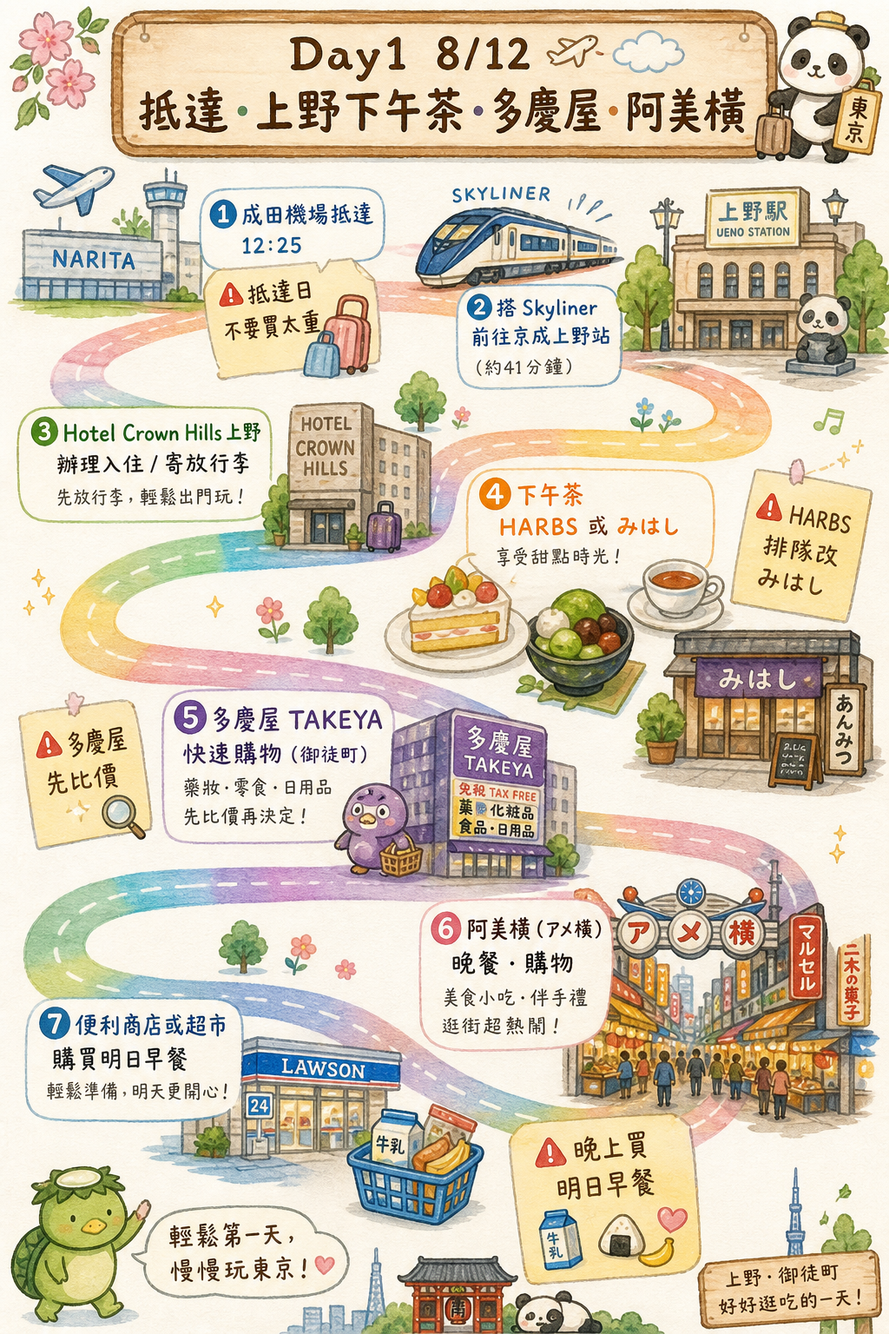
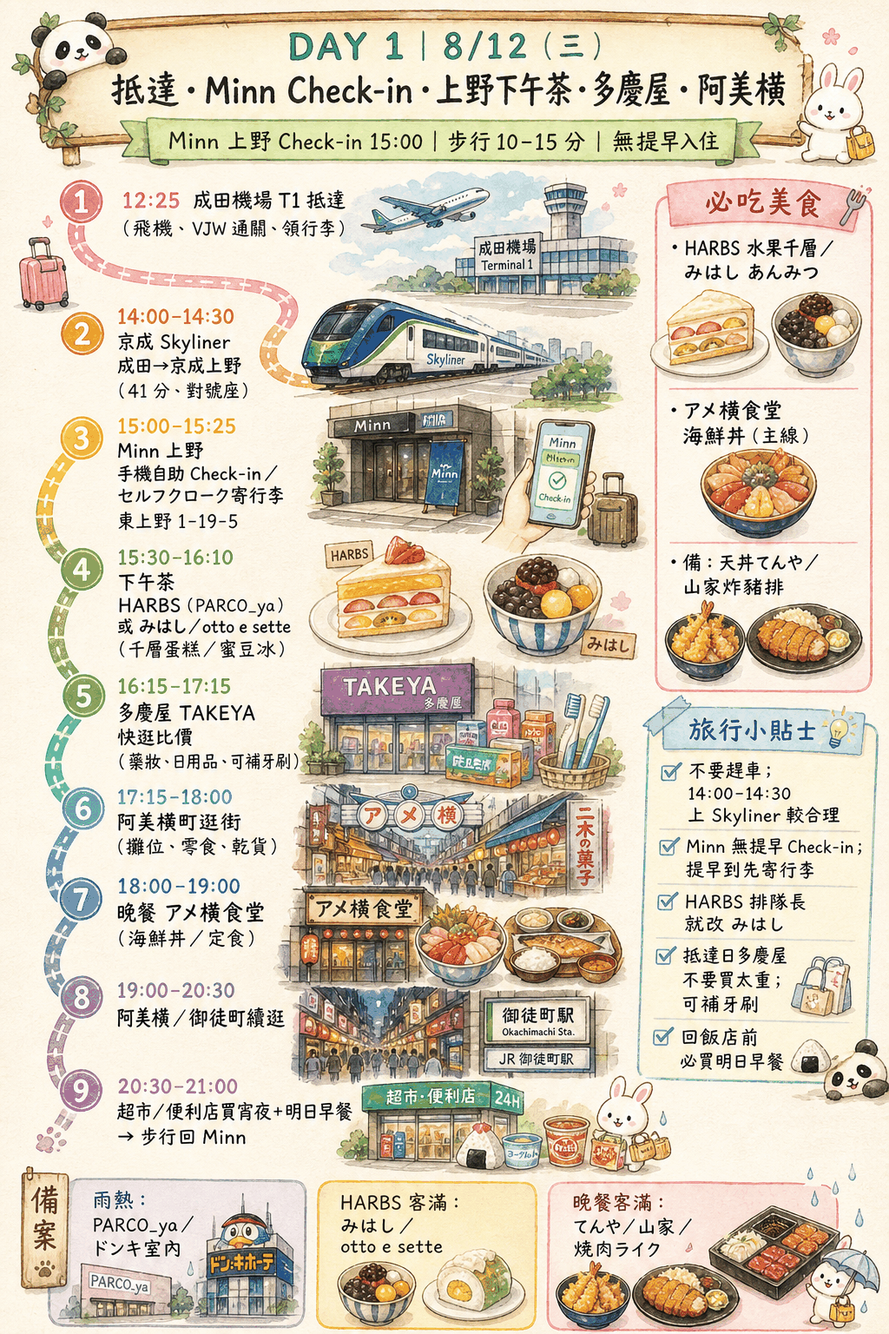
Refresh Day1 guide and map for Minn Ueno check-in.
Replace Crown Hills labels with Minn walk-in flow, self check-in tips, and synced mobile-friendly Day1 journey art.

diff --git a/Japan/20260812_Tokyo/tokyo-2026-08-guide.html b/Japan/20260812_Tokyo/tokyo-2026-08-guide.html
@@ -329,12 +329,13 @@
 <p class="muted">外出只要看這一節就好；遇到疑問再往下翻各日詳細說明。</p>
 
 <details open>
-<summary>Day1｜抵達東京・上野下午茶・多慶屋・阿美橫町</summary>
+<summary>Day1｜抵達東京・Minn Check-in・上野下午茶・多慶屋・阿美橫町</summary>
 <ul>
 <li><span class="time">07:55</span> 桃園 T2 起飛（BR 184）→ <span class="time">12:25</span> 抵達成田機場<a class="gmap" href="https://www.google.com/maps/search/?api=1&query=%E6%88%90%E7%94%B0%E5%9B%BD%E9%9A%9B%E7%A9%BA%E6%B8%AF" target="_blank" rel="noopener" title="Google Maps：成田国際空港">📍地圖</a> → 依指示走 VJW 通關。<b>行李多、人多時不用急著衝車</b>。</li>
 <li><span class="time">14:00–14:30</span> Skyliner 成田機場站<a class="gmap" href="https://www.google.com/maps/search/?api=1&query=%E6%88%90%E7%94%B0%E7%A9%BA%E6%B8%AF%E9%A7%85" target="_blank" rel="noopener" title="Google Maps：成田空港駅">📍地圖</a> → 京成上野站<a class="gmap" href="https://www.google.com/maps/search/?api=1&query=%E4%BA%AC%E6%88%90%E4%B8%8A%E9%87%8E%E9%A7%85" target="_blank" rel="noopener" title="Google Maps：京成上野駅">📍地圖</a>（建議現場直接買來回票）。</li>
+<li><span class="time">15:00–15:25</span> 步行約 10–15 分 → <b>Minn 上野</b> 手機自助 Check-in／セルフクローク寄行李（無提早 Check-in）。詳見 <a href="ueno-station-to-minn-ueno-guide.html">站→飯店</a>。</li>
 <li><span class="time">15:30–16:15</span> 上野下午茶：HARBS<a class="gmap" href="https://www.google.com/maps/search/?api=1&query=HARBS%20PARCO_ya%20%E4%B8%8A%E9%87%8E" target="_blank" rel="noopener" title="Google Maps：HARBS PARCO_ya 上野">📍地圖</a> 若排隊太長就直接改 <b>みはし<a class="gmap" href="https://www.google.com/maps/search/?api=1&query=%E3%81%BF%E3%81%AF%E3%81%97%20%E4%B8%8A%E9%87%8E%E6%9C%AC%E5%BA%97" target="_blank" rel="noopener" title="Google Maps：みはし 上野本店">📍地圖</a> / otto e sette<a class="gmap" href="https://www.google.com/maps/search/?api=1&query=%E5%BB%9A%20otto%20e%20sette%20%E4%B8%8A%E9%87%8E" target="_blank" rel="noopener" title="Google Maps：廚 otto e sette 上野">📍地圖</a></b>。</li>
-<li><span class="time">16:15–17:15</span> <b>多慶屋快逛</b>（藥妝／食品／日用品先看價）→ <span class="time">17:15 起</span> 阿美橫町逛街＋晚餐 → 回飯店前買宵夜／明日早餐。</li>
+<li><span class="time">16:15–17:15</span> <b>多慶屋快逛</b>（藥妝／食品／日用品先看價；可補牙刷）→ <span class="time">17:15 起</span> 阿美橫町逛街＋晚餐 → 回飯店前買宵夜／明日早餐。</li>
 </ul>
 </details>
 
@@ -568,7 +569,7 @@
 <summary>🟢 現場即可（不收訂位 / 排隊制）</summary>
 <div class="card">
 <ul>
-<li><b>Day1</b>：HARBS、みはし、鳥貴族、山家炸豬排、天丼てんや — <b>現場排</b>；HARBS <b>14:30 前到</b>。</li>
+<li><b>Day1</b>：HARBS、みはし、鳥貴族、山家炸豬排、天丼てんや — <b>現場排</b>；入住後再看 HARBS，隊長就改 みはし。</li>
 <li><b>Day2</b>：豐洲午餐多店機動；晚餐優先麻布台 Hills／希須林／Sta.／神谷町・六本木連鎖，或回上野阿美橫／てんや／山家。</li>
 <li><b>Day3</b>：WEGO 原宿本店 10:30 開；午餐澀谷；晚餐改新宿西口（展望台後、光雕秀前）；19:30 光雕秀後回上野。</li>
 <li><b>Day4</b>：Solamachi トリトン／利久；燈籠後淺草或上野快速晚餐。</li>
@@ -609,6 +610,10 @@
 <div class="muted">住宿：<b>Minn 上野</b>（東上野1-19-5<a class="gmap" href="https://www.google.com/maps/search/?api=1&query=Minn%E4%B8%8A%E9%87%8E+%E6%9D%B1%E4%BA%AC%E9%83%BD%E5%8F%B0%E6%9D%B1%E5%8C%BA%E6%9D%B1%E4%B8%8A%E9%87%8E1-19-5" target="_blank" rel="noopener" title="Google Maps：Minn 上野">📍地圖</a>｜Check-in 15:00）　主題：輕鬆收心、上野/御徒町初逛、多慶屋比價、阿美橫町初體驗　｜　<a href="ueno-station-to-minn-ueno-guide.html">站→飯店動線</a></div>
 <a class="map-link" href="assets/day-01-20260812.png" target="_blank" rel="noopener"><img src="assets/day-01-20260812.png" alt="Day 1 旅程地圖（點擊開啟高畫質原圖）" class="map-img" loading="lazy" decoding="async"></a>
 
+<div class="okbox">✅ <b>本日定案</b>：成田 → Skyliner → <b>Minn 上野</b>（15:00 Check-in）→ 下午茶 → 多慶屋比價 → 阿美橫町逛街＋アメ横食堂 → 回飯店前買明日早餐。<br>
+⭐ 京成上野→Minn 步行約 <b>10–15 分</b>（可改 JR 御徒町再走約 5 分）。手機自助入住＋セルフクローク；詳見 <a href="ueno-station-to-minn-ueno-guide.html">站→飯店指南</a>。</div>
+<div class="warnbox">⚠ Minn <b>無提早 Check-in</b>；提早到先寄行李再去吃／逛。備品含洗髮／沐浴／毛巾／吹風機，<b>不含牙刷／刮鬍刀／睡衣</b>（可現場買竹牙刷，或到多慶屋／药妆補）。</div>
+
 <details open>
 <summary>🕒 時間表 + 交通路線</summary>
 <div class="card">
@@ -616,7 +621,8 @@
 <span class="muted">↳ 抓 90–120 分鐘緩衝：暑假人潮 + 領李 + 買 Skyliner 票，<b>14:00–14:30 上車</b>較合理。</span></p>
 <p><span class="time">~14:10–14:30</span> <b>京成 Skyliner</b>：成田機場站<a class="gmap" href="https://www.google.com/maps/search/?api=1&query=%E6%88%90%E7%94%B0%E7%A9%BA%E6%B8%AF%E9%A7%85" target="_blank" rel="noopener" title="Google Maps：成田空港駅">📍地圖</a> → 京成上野站<a class="gmap" href="https://www.google.com/maps/search/?api=1&query=%E4%BA%AC%E6%88%90%E4%B8%8A%E9%87%8E%E9%A7%85" target="_blank" rel="noopener" title="Google Maps：京成上野駅">📍地圖</a>，<b>直達不轉車 41 分</b>，¥2,580（建議買來回 ¥4,480）。<br>
 <span class="muted">↳ Skyliner 對號座，行李架夠大。</span></p>
-<p><span class="time">15:00–15:25</span> 京成上野站<a class="gmap" href="https://www.google.com/maps/search/?api=1&query=%E4%BA%AC%E6%88%90%E4%B8%8A%E9%87%8E%E9%A7%85" target="_blank" rel="noopener" title="Google Maps：京成上野駅">📍地圖</a>步行約 10–15 分（或轉 JR 御徒町再走 5 分）→ <b>Minn 上野</b> 手機自助 Check-in／セルフクローク寄行李。詳見 <a href="ueno-station-to-minn-ueno-guide.html">站→飯店指南</a>。</p>
+<p><span class="time">15:00–15:25</span> 京成上野站<a class="gmap" href="https://www.google.com/maps/search/?api=1&query=%E4%BA%AC%E6%88%90%E4%B8%8A%E9%87%8E%E9%A7%85" target="_blank" rel="noopener" title="Google Maps：京成上野駅">📍地圖</a>步行約 10–15 分（或轉 JR 御徒町再走 5 分）→ <b>Minn 上野</b> 手機自助 Check-in／セルフクローク寄行李。詳見 <a href="ueno-station-to-minn-ueno-guide.html">站→飯店指南</a>。<br>
+<span class="muted">↳ 方向往南（御徒町／阿美橫），勿往不忍池／動物園北走。Maps 搜「Minn 上野」或東上野1-19-5。</span></p>
 <p><span class="time">15:30–16:10</span> 下午茶（<b>HARBS 若還排得進就吃；若已晚或太多人，直接改 みはし/otto e sette</b>）。</p>
 <p><span class="time">16:15–17:15</span> <b>多慶屋 TAKEYA<a class="gmap" href="https://www.google.com/maps/search/?api=1&query=%E5%A4%9A%E6%85%B6%E5%B1%8B%20%E4%B8%8A%E9%87%8E" target="_blank" rel="noopener" title="Google Maps：多慶屋 上野">📍地圖</a>快逛</b>：御徒町大型折扣店，先看藥妝／食品／日用品／伴手禮價格；抵達日不要買太重，先做比價與補基本用品。</p>
 <p><span class="time">17:15–18:00</span> <b>阿美橫町<a class="gmap" href="https://www.google.com/maps/search/?api=1&query=%E3%82%A2%E3%83%A1%E6%A8%AA" target="_blank" rel="noopener" title="Google Maps：アメ横">📍地圖</a>逛街</b>（药妆、零食、海鮮乾貨；見下「阿美橫町・在地生活」）。</p>
@@ -664,8 +670,8 @@
 <summary>🍽 三餐 ×3 備案</summary>
 <div class="card">
 <p class="muted">本日風格：<b>甜點下午茶 ＋ 阿美橫町逛街晚餐</b>（與其他天不重複）。</p>
-<p><span class="tag b">下午茶（15:00）</span></p>
-<p><b>① HARBS 上野店<a class="gmap" href="https://www.google.com/maps/search/?api=1&query=HARBS%20PARCO_ya%20%E4%B8%8A%E9%87%8E" target="_blank" rel="noopener" title="Google Maps：HARBS PARCO_ya 上野">📍地圖</a></b>（ハーブス）<span class="pill">PARCO_ya<a class="gmap" href="https://www.google.com/maps/search/?api=1&query=PARCO_ya%20%E4%B8%8A%E9%87%8E" target="_blank" rel="noopener" title="Google Maps：PARCO_ya 上野">📍地圖</a> 2F</span> — 水果千層 Mille Crepes + 熱紅茶，¥1,500–2,000。<b>不收訂位</b>；若當天 <b>15:30 前已到上野且排隊不長</b>再選它，否則直接改 ②③ 更穩，每人低消一杯飲品。Maps：<a class="gmap" href="https://www.google.com/maps/search/?api=1&query=HARBS%20PARCO_ya%20%E4%B8%8A%E9%87%8E" target="_blank" rel="noopener" title="Google Maps：HARBS PARCO_ya 上野">HARBS PARCO_ya 上野</a>。</p>
+<p><span class="tag b">下午茶（15:30｜Check-in 後）</span></p>
+<p><b>① HARBS 上野店<a class="gmap" href="https://www.google.com/maps/search/?api=1&query=HARBS%20PARCO_ya%20%E4%B8%8A%E9%87%8E" target="_blank" rel="noopener" title="Google Maps：HARBS PARCO_ya 上野">📍地圖</a></b>（ハーブス）<span class="pill">PARCO_ya<a class="gmap" href="https://www.google.com/maps/search/?api=1&query=PARCO_ya%20%E4%B8%8A%E9%87%8E" target="_blank" rel="noopener" title="Google Maps：PARCO_ya 上野">📍地圖</a> 2F</span> — 水果千層 Mille Crepes + 熱紅茶，¥1,500–2,000。<b>不收訂位</b>；Minn Check-in 後若排隊不長再選它，否則直接改 ②③ 更穩，每人低消一杯飲品。Maps：<a class="gmap" href="https://www.google.com/maps/search/?api=1&query=HARBS%20PARCO_ya%20%E4%B8%8A%E9%87%8E" target="_blank" rel="noopener" title="Google Maps：HARBS PARCO_ya 上野">HARBS PARCO_ya 上野</a>。</p>
 <p><b>② みはし 上野本店<a class="gmap" href="https://www.google.com/maps/search/?api=1&query=%E3%81%BF%E3%81%AF%E3%81%97%20%E4%B8%8A%E9%87%8E%E6%9C%AC%E5%BA%97" target="_blank" rel="noopener" title="Google Maps：みはし 上野本店">📍地圖</a></b>（あんみつ蜜豆冰）— 在地老店、夏天消暑，¥800–1,200，<b>現場候位、不訂位</b>。Maps：<a class="gmap" href="https://www.google.com/maps/search/?api=1&query=%E3%81%BF%E3%81%AF%E3%81%97%20%E4%B8%8A%E9%87%8E" target="_blank" rel="noopener" title="Google Maps：みはし 上野">みはし 上野</a>。</p>
 <p><b>③ 廚 otto e sette<a class="gmap" href="https://www.google.com/maps/search/?api=1&query=%E5%BB%9A%20otto%20e%20sette%20%E4%B8%8A%E9%87%8E" target="_blank" rel="noopener" title="Google Maps：廚 otto e sette 上野">📍地圖</a></b>（義式甜點，少觀光客）— 蛋糕精緻，¥1,200–1,800，<b>不訂位</b>，平日午後較空。</p>
 <hr>

diff --git a/Japan/20260812_Tokyo/tokyo-20260812-guide.html b/Japan/20260812_Tokyo/tokyo-20260812-guide.html
@@ -329,12 +329,13 @@
 <p class="muted">外出只要看這一節就好；遇到疑問再往下翻各日詳細說明。</p>
 
 <details open>
-<summary>Day1｜抵達東京・上野下午茶・多慶屋・阿美橫町</summary>
+<summary>Day1｜抵達東京・Minn Check-in・上野下午茶・多慶屋・阿美橫町</summary>
 <ul>
 <li><span class="time">07:55</span> 桃園 T2 起飛（BR 184）→ <span class="time">12:25</span> 抵達成田機場<a class="gmap" href="https://www.google.com/maps/search/?api=1&query=%E6%88%90%E7%94%B0%E5%9B%BD%E9%9A%9B%E7%A9%BA%E6%B8%AF" target="_blank" rel="noopener" title="Google Maps：成田国際空港">📍地圖</a> → 依指示走 VJW 通關。<b>行李多、人多時不用急著衝車</b>。</li>
 <li><span class="time">14:00–14:30</span> Skyliner 成田機場站<a class="gmap" href="https://www.google.com/maps/search/?api=1&query=%E6%88%90%E7%94%B0%E7%A9%BA%E6%B8%AF%E9%A7%85" target="_blank" rel="noopener" title="Google Maps：成田空港駅">📍地圖</a> → 京成上野站<a class="gmap" href="https://www.google.com/maps/search/?api=1&query=%E4%BA%AC%E6%88%90%E4%B8%8A%E9%87%8E%E9%A7%85" target="_blank" rel="noopener" title="Google Maps：京成上野駅">📍地圖</a>（建議現場直接買來回票）。</li>
+<li><span class="time">15:00–15:25</span> 步行約 10–15 分 → <b>Minn 上野</b> 手機自助 Check-in／セルフクローク寄行李（無提早 Check-in）。詳見 <a href="ueno-station-to-minn-ueno-guide.html">站→飯店</a>。</li>
 <li><span class="time">15:30–16:15</span> 上野下午茶：HARBS<a class="gmap" href="https://www.google.com/maps/search/?api=1&query=HARBS%20PARCO_ya%20%E4%B8%8A%E9%87%8E" target="_blank" rel="noopener" title="Google Maps：HARBS PARCO_ya 上野">📍地圖</a> 若排隊太長就直接改 <b>みはし<a class="gmap" href="https://www.google.com/maps/search/?api=1&query=%E3%81%BF%E3%81%AF%E3%81%97%20%E4%B8%8A%E9%87%8E%E6%9C%AC%E5%BA%97" target="_blank" rel="noopener" title="Google Maps：みはし 上野本店">📍地圖</a> / otto e sette<a class="gmap" href="https://www.google.com/maps/search/?api=1&query=%E5%BB%9A%20otto%20e%20sette%20%E4%B8%8A%E9%87%8E" target="_blank" rel="noopener" title="Google Maps：廚 otto e sette 上野">📍地圖</a></b>。</li>
-<li><span class="time">16:15–17:15</span> <b>多慶屋快逛</b>（藥妝／食品／日用品先看價）→ <span class="time">17:15 起</span> 阿美橫町逛街＋晚餐 → 回飯店前買宵夜／明日早餐。</li>
+<li><span class="time">16:15–17:15</span> <b>多慶屋快逛</b>（藥妝／食品／日用品先看價；可補牙刷）→ <span class="time">17:15 起</span> 阿美橫町逛街＋晚餐 → 回飯店前買宵夜／明日早餐。</li>
 </ul>
 </details>
 
@@ -568,7 +569,7 @@
 <summary>🟢 現場即可（不收訂位 / 排隊制）</summary>
 <div class="card">
 <ul>
-<li><b>Day1</b>：HARBS、みはし、鳥貴族、山家炸豬排、天丼てんや — <b>現場排</b>；HARBS <b>14:30 前到</b>。</li>
+<li><b>Day1</b>：HARBS、みはし、鳥貴族、山家炸豬排、天丼てんや — <b>現場排</b>；入住後再看 HARBS，隊長就改 みはし。</li>
 <li><b>Day2</b>：豐洲午餐多店機動；晚餐優先麻布台 Hills／希須林／Sta.／神谷町・六本木連鎖，或回上野阿美橫／てんや／山家。</li>
 <li><b>Day3</b>：WEGO 原宿本店 10:30 開；午餐澀谷；晚餐改新宿西口（展望台後、光雕秀前）；19:30 光雕秀後回上野。</li>
 <li><b>Day4</b>：Solamachi トリトン／利久；燈籠後淺草或上野快速晚餐。</li>
@@ -609,6 +610,10 @@
 <div class="muted">住宿：<b>Minn 上野</b>（東上野1-19-5<a class="gmap" href="https://www.google.com/maps/search/?api=1&query=Minn%E4%B8%8A%E9%87%8E+%E6%9D%B1%E4%BA%AC%E9%83%BD%E5%8F%B0%E6%9D%B1%E5%8C%BA%E6%9D%B1%E4%B8%8A%E9%87%8E1-19-5" target="_blank" rel="noopener" title="Google Maps：Minn 上野">📍地圖</a>｜Check-in 15:00）　主題：輕鬆收心、上野/御徒町初逛、多慶屋比價、阿美橫町初體驗　｜　<a href="ueno-station-to-minn-ueno-guide.html">站→飯店動線</a></div>
 <a class="map-link" href="assets/day-01-20260812.png" target="_blank" rel="noopener"><img src="assets/day-01-20260812.png" alt="Day 1 旅程地圖（點擊開啟高畫質原圖）" class="map-img" loading="lazy" decoding="async"></a>
 
+<div class="okbox">✅ <b>本日定案</b>：成田 → Skyliner → <b>Minn 上野</b>（15:00 Check-in）→ 下午茶 → 多慶屋比價 → 阿美橫町逛街＋アメ横食堂 → 回飯店前買明日早餐。<br>
+⭐ 京成上野→Minn 步行約 <b>10–15 分</b>（可改 JR 御徒町再走約 5 分）。手機自助入住＋セルフクローク；詳見 <a href="ueno-station-to-minn-ueno-guide.html">站→飯店指南</a>。</div>
+<div class="warnbox">⚠ Minn <b>無提早 Check-in</b>；提早到先寄行李再去吃／逛。備品含洗髮／沐浴／毛巾／吹風機，<b>不含牙刷／刮鬍刀／睡衣</b>（可現場買竹牙刷，或到多慶屋／药妆補）。</div>
+
 <details open>
 <summary>🕒 時間表 + 交通路線</summary>
 <div class="card">
@@ -616,7 +621,8 @@
 <span class="muted">↳ 抓 90–120 分鐘緩衝：暑假人潮 + 領李 + 買 Skyliner 票，<b>14:00–14:30 上車</b>較合理。</span></p>
 <p><span class="time">~14:10–14:30</span> <b>京成 Skyliner</b>：成田機場站<a class="gmap" href="https://www.google.com/maps/search/?api=1&query=%E6%88%90%E7%94%B0%E7%A9%BA%E6%B8%AF%E9%A7%85" target="_blank" rel="noopener" title="Google Maps：成田空港駅">📍地圖</a> → 京成上野站<a class="gmap" href="https://www.google.com/maps/search/?api=1&query=%E4%BA%AC%E6%88%90%E4%B8%8A%E9%87%8E%E9%A7%85" target="_blank" rel="noopener" title="Google Maps：京成上野駅">📍地圖</a>，<b>直達不轉車 41 分</b>，¥2,580（建議買來回 ¥4,480）。<br>
 <span class="muted">↳ Skyliner 對號座，行李架夠大。</span></p>
-<p><span class="time">15:00–15:25</span> 京成上野站<a class="gmap" href="https://www.google.com/maps/search/?api=1&query=%E4%BA%AC%E6%88%90%E4%B8%8A%E9%87%8E%E9%A7%85" target="_blank" rel="noopener" title="Google Maps：京成上野駅">📍地圖</a>步行約 10–15 分（或轉 JR 御徒町再走 5 分）→ <b>Minn 上野</b> 手機自助 Check-in／セルフクローク寄行李。詳見 <a href="ueno-station-to-minn-ueno-guide.html">站→飯店指南</a>。</p>
+<p><span class="time">15:00–15:25</span> 京成上野站<a class="gmap" href="https://www.google.com/maps/search/?api=1&query=%E4%BA%AC%E6%88%90%E4%B8%8A%E9%87%8E%E9%A7%85" target="_blank" rel="noopener" title="Google Maps：京成上野駅">📍地圖</a>步行約 10–15 分（或轉 JR 御徒町再走 5 分）→ <b>Minn 上野</b> 手機自助 Check-in／セルフクローク寄行李。詳見 <a href="ueno-station-to-minn-ueno-guide.html">站→飯店指南</a>。<br>
+<span class="muted">↳ 方向往南（御徒町／阿美橫），勿往不忍池／動物園北走。Maps 搜「Minn 上野」或東上野1-19-5。</span></p>
 <p><span class="time">15:30–16:10</span> 下午茶（<b>HARBS 若還排得進就吃；若已晚或太多人，直接改 みはし/otto e sette</b>）。</p>
 <p><span class="time">16:15–17:15</span> <b>多慶屋 TAKEYA<a class="gmap" href="https://www.google.com/maps/search/?api=1&query=%E5%A4%9A%E6%85%B6%E5%B1%8B%20%E4%B8%8A%E9%87%8E" target="_blank" rel="noopener" title="Google Maps：多慶屋 上野">📍地圖</a>快逛</b>：御徒町大型折扣店，先看藥妝／食品／日用品／伴手禮價格；抵達日不要買太重，先做比價與補基本用品。</p>
 <p><span class="time">17:15–18:00</span> <b>阿美橫町<a class="gmap" href="https://www.google.com/maps/search/?api=1&query=%E3%82%A2%E3%83%A1%E6%A8%AA" target="_blank" rel="noopener" title="Google Maps：アメ横">📍地圖</a>逛街</b>（药妆、零食、海鮮乾貨；見下「阿美橫町・在地生活」）。</p>
@@ -664,8 +670,8 @@
 <summary>🍽 三餐 ×3 備案</summary>
 <div class="card">
 <p class="muted">本日風格：<b>甜點下午茶 ＋ 阿美橫町逛街晚餐</b>（與其他天不重複）。</p>
-<p><span class="tag b">下午茶（15:00）</span></p>
-<p><b>① HARBS 上野店<a class="gmap" href="https://www.google.com/maps/search/?api=1&query=HARBS%20PARCO_ya%20%E4%B8%8A%E9%87%8E" target="_blank" rel="noopener" title="Google Maps：HARBS PARCO_ya 上野">📍地圖</a></b>（ハーブス）<span class="pill">PARCO_ya<a class="gmap" href="https://www.google.com/maps/search/?api=1&query=PARCO_ya%20%E4%B8%8A%E9%87%8E" target="_blank" rel="noopener" title="Google Maps：PARCO_ya 上野">📍地圖</a> 2F</span> — 水果千層 Mille Crepes + 熱紅茶，¥1,500–2,000。<b>不收訂位</b>；若當天 <b>15:30 前已到上野且排隊不長</b>再選它，否則直接改 ②③ 更穩，每人低消一杯飲品。Maps：<a class="gmap" href="https://www.google.com/maps/search/?api=1&query=HARBS%20PARCO_ya%20%E4%B8%8A%E9%87%8E" target="_blank" rel="noopener" title="Google Maps：HARBS PARCO_ya 上野">HARBS PARCO_ya 上野</a>。</p>
+<p><span class="tag b">下午茶（15:30｜Check-in 後）</span></p>
+<p><b>① HARBS 上野店<a class="gmap" href="https://www.google.com/maps/search/?api=1&query=HARBS%20PARCO_ya%20%E4%B8%8A%E9%87%8E" target="_blank" rel="noopener" title="Google Maps：HARBS PARCO_ya 上野">📍地圖</a></b>（ハーブス）<span class="pill">PARCO_ya<a class="gmap" href="https://www.google.com/maps/search/?api=1&query=PARCO_ya%20%E4%B8%8A%E9%87%8E" target="_blank" rel="noopener" title="Google Maps：PARCO_ya 上野">📍地圖</a> 2F</span> — 水果千層 Mille Crepes + 熱紅茶，¥1,500–2,000。<b>不收訂位</b>；Minn Check-in 後若排隊不長再選它，否則直接改 ②③ 更穩，每人低消一杯飲品。Maps：<a class="gmap" href="https://www.google.com/maps/search/?api=1&query=HARBS%20PARCO_ya%20%E4%B8%8A%E9%87%8E" target="_blank" rel="noopener" title="Google Maps：HARBS PARCO_ya 上野">HARBS PARCO_ya 上野</a>。</p>
 <p><b>② みはし 上野本店<a class="gmap" href="https://www.google.com/maps/search/?api=1&query=%E3%81%BF%E3%81%AF%E3%81%97%20%E4%B8%8A%E9%87%8E%E6%9C%AC%E5%BA%97" target="_blank" rel="noopener" title="Google Maps：みはし 上野本店">📍地圖</a></b>（あんみつ蜜豆冰）— 在地老店、夏天消暑，¥800–1,200，<b>現場候位、不訂位</b>。Maps：<a class="gmap" href="https://www.google.com/maps/search/?api=1&query=%E3%81%BF%E3%81%AF%E3%81%97%20%E4%B8%8A%E9%87%8E" target="_blank" rel="noopener" title="Google Maps：みはし 上野">みはし 上野</a>。</p>
 <p><b>③ 廚 otto e sette<a class="gmap" href="https://www.google.com/maps/search/?api=1&query=%E5%BB%9A%20otto%20e%20sette%20%E4%B8%8A%E9%87%8E" target="_blank" rel="noopener" title="Google Maps：廚 otto e sette 上野">📍地圖</a></b>（義式甜點，少觀光客）— 蛋糕精緻，¥1,200–1,800，<b>不訂位</b>，平日午後較空。</p>
 <hr>

diff --git a/docs/Japan/20260812_Tokyo/tokyo-2026-08-guide.html b/docs/Japan/20260812_Tokyo/tokyo-2026-08-guide.html
@@ -329,12 +329,13 @@
 <p class="muted">外出只要看這一節就好；遇到疑問再往下翻各日詳細說明。</p>
 
 <details open>
-<summary>Day1｜抵達東京・上野下午茶・多慶屋・阿美橫町</summary>
+<summary>Day1｜抵達東京・Minn Check-in・上野下午茶・多慶屋・阿美橫町</summary>
 <ul>
 <li><span class="time">07:55</span> 桃園 T2 起飛（BR 184）→ <span class="time">12:25</span> 抵達成田機場<a class="gmap" href="https://www.google.com/maps/search/?api=1&query=%E6%88%90%E7%94%B0%E5%9B%BD%E9%9A%9B%E7%A9%BA%E6%B8%AF" target="_blank" rel="noopener" title="Google Maps：成田国際空港">📍地圖</a> → 依指示走 VJW 通關。<b>行李多、人多時不用急著衝車</b>。</li>
 <li><span class="time">14:00–14:30</span> Skyliner 成田機場站<a class="gmap" href="https://www.google.com/maps/search/?api=1&query=%E6%88%90%E7%94%B0%E7%A9%BA%E6%B8%AF%E9%A7%85" target="_blank" rel="noopener" title="Google Maps：成田空港駅">📍地圖</a> → 京成上野站<a class="gmap" href="https://www.google.com/maps/search/?api=1&query=%E4%BA%AC%E6%88%90%E4%B8%8A%E9%87%8E%E9%A7%85" target="_blank" rel="noopener" title="Google Maps：京成上野駅">📍地圖</a>（建議現場直接買來回票）。</li>
+<li><span class="time">15:00–15:25</span> 步行約 10–15 分 → <b>Minn 上野</b> 手機自助 Check-in／セルフクローク寄行李（無提早 Check-in）。詳見 <a href="ueno-station-to-minn-ueno-guide.html">站→飯店</a>。</li>
 <li><span class="time">15:30–16:15</span> 上野下午茶：HARBS<a class="gmap" href="https://www.google.com/maps/search/?api=1&query=HARBS%20PARCO_ya%20%E4%B8%8A%E9%87%8E" target="_blank" rel="noopener" title="Google Maps：HARBS PARCO_ya 上野">📍地圖</a> 若排隊太長就直接改 <b>みはし<a class="gmap" href="https://www.google.com/maps/search/?api=1&query=%E3%81%BF%E3%81%AF%E3%81%97%20%E4%B8%8A%E9%87%8E%E6%9C%AC%E5%BA%97" target="_blank" rel="noopener" title="Google Maps：みはし 上野本店">📍地圖</a> / otto e sette<a class="gmap" href="https://www.google.com/maps/search/?api=1&query=%E5%BB%9A%20otto%20e%20sette%20%E4%B8%8A%E9%87%8E" target="_blank" rel="noopener" title="Google Maps：廚 otto e sette 上野">📍地圖</a></b>。</li>
-<li><span class="time">16:15–17:15</span> <b>多慶屋快逛</b>（藥妝／食品／日用品先看價）→ <span class="time">17:15 起</span> 阿美橫町逛街＋晚餐 → 回飯店前買宵夜／明日早餐。</li>
+<li><span class="time">16:15–17:15</span> <b>多慶屋快逛</b>（藥妝／食品／日用品先看價；可補牙刷）→ <span class="time">17:15 起</span> 阿美橫町逛街＋晚餐 → 回飯店前買宵夜／明日早餐。</li>
 </ul>
 </details>
 
@@ -568,7 +569,7 @@
 <summary>🟢 現場即可（不收訂位 / 排隊制）</summary>
 <div class="card">
 <ul>
-<li><b>Day1</b>：HARBS、みはし、鳥貴族、山家炸豬排、天丼てんや — <b>現場排</b>；HARBS <b>14:30 前到</b>。</li>
+<li><b>Day1</b>：HARBS、みはし、鳥貴族、山家炸豬排、天丼てんや — <b>現場排</b>；入住後再看 HARBS，隊長就改 みはし。</li>
 <li><b>Day2</b>：豐洲午餐多店機動；晚餐優先麻布台 Hills／希須林／Sta.／神谷町・六本木連鎖，或回上野阿美橫／てんや／山家。</li>
 <li><b>Day3</b>：WEGO 原宿本店 10:30 開；午餐澀谷；晚餐改新宿西口（展望台後、光雕秀前）；19:30 光雕秀後回上野。</li>
 <li><b>Day4</b>：Solamachi トリトン／利久；燈籠後淺草或上野快速晚餐。</li>
@@ -609,6 +610,10 @@
 <div class="muted">住宿：<b>Minn 上野</b>（東上野1-19-5<a class="gmap" href="https://www.google.com/maps/search/?api=1&query=Minn%E4%B8%8A%E9%87%8E+%E6%9D%B1%E4%BA%AC%E9%83%BD%E5%8F%B0%E6%9D%B1%E5%8C%BA%E6%9D%B1%E4%B8%8A%E9%87%8E1-19-5" target="_blank" rel="noopener" title="Google Maps：Minn 上野">📍地圖</a>｜Check-in 15:00）　主題：輕鬆收心、上野/御徒町初逛、多慶屋比價、阿美橫町初體驗　｜　<a href="ueno-station-to-minn-ueno-guide.html">站→飯店動線</a></div>
 <a class="map-link" href="assets/day-01-20260812.png" target="_blank" rel="noopener"><img src="assets/day-01-20260812.png" alt="Day 1 旅程地圖（點擊開啟高畫質原圖）" class="map-img" loading="lazy" decoding="async"></a>
 
+<div class="okbox">✅ <b>本日定案</b>：成田 → Skyliner → <b>Minn 上野</b>（15:00 Check-in）→ 下午茶 → 多慶屋比價 → 阿美橫町逛街＋アメ横食堂 → 回飯店前買明日早餐。<br>
+⭐ 京成上野→Minn 步行約 <b>10–15 分</b>（可改 JR 御徒町再走約 5 分）。手機自助入住＋セルフクローク；詳見 <a href="ueno-station-to-minn-ueno-guide.html">站→飯店指南</a>。</div>
+<div class="warnbox">⚠ Minn <b>無提早 Check-in</b>；提早到先寄行李再去吃／逛。備品含洗髮／沐浴／毛巾／吹風機，<b>不含牙刷／刮鬍刀／睡衣</b>（可現場買竹牙刷，或到多慶屋／药妆補）。</div>
+
 <details open>
 <summary>🕒 時間表 + 交通路線</summary>
 <div class="card">
@@ -616,7 +621,8 @@
 <span class="muted">↳ 抓 90–120 分鐘緩衝：暑假人潮 + 領李 + 買 Skyliner 票，<b>14:00–14:30 上車</b>較合理。</span></p>
 <p><span class="time">~14:10–14:30</span> <b>京成 Skyliner</b>：成田機場站<a class="gmap" href="https://www.google.com/maps/search/?api=1&query=%E6%88%90%E7%94%B0%E7%A9%BA%E6%B8%AF%E9%A7%85" target="_blank" rel="noopener" title="Google Maps：成田空港駅">📍地圖</a> → 京成上野站<a class="gmap" href="https://www.google.com/maps/search/?api=1&query=%E4%BA%AC%E6%88%90%E4%B8%8A%E9%87%8E%E9%A7%85" target="_blank" rel="noopener" title="Google Maps：京成上野駅">📍地圖</a>，<b>直達不轉車 41 分</b>，¥2,580（建議買來回 ¥4,480）。<br>
 <span class="muted">↳ Skyliner 對號座，行李架夠大。</span></p>
-<p><span class="time">15:00–15:25</span> 京成上野站<a class="gmap" href="https://www.google.com/maps/search/?api=1&query=%E4%BA%AC%E6%88%90%E4%B8%8A%E9%87%8E%E9%A7%85" target="_blank" rel="noopener" title="Google Maps：京成上野駅">📍地圖</a>步行約 10–15 分（或轉 JR 御徒町再走 5 分）→ <b>Minn 上野</b> 手機自助 Check-in／セルフクローク寄行李。詳見 <a href="ueno-station-to-minn-ueno-guide.html">站→飯店指南</a>。</p>
+<p><span class="time">15:00–15:25</span> 京成上野站<a class="gmap" href="https://www.google.com/maps/search/?api=1&query=%E4%BA%AC%E6%88%90%E4%B8%8A%E9%87%8E%E9%A7%85" target="_blank" rel="noopener" title="Google Maps：京成上野駅">📍地圖</a>步行約 10–15 分（或轉 JR 御徒町再走 5 分）→ <b>Minn 上野</b> 手機自助 Check-in／セルフクローク寄行李。詳見 <a href="ueno-station-to-minn-ueno-guide.html">站→飯店指南</a>。<br>
+<span class="muted">↳ 方向往南（御徒町／阿美橫），勿往不忍池／動物園北走。Maps 搜「Minn 上野」或東上野1-19-5。</span></p>
 <p><span class="time">15:30–16:10</span> 下午茶（<b>HARBS 若還排得進就吃；若已晚或太多人，直接改 みはし/otto e sette</b>）。</p>
 <p><span class="time">16:15–17:15</span> <b>多慶屋 TAKEYA<a class="gmap" href="https://www.google.com/maps/search/?api=1&query=%E5%A4%9A%E6%85%B6%E5%B1%8B%20%E4%B8%8A%E9%87%8E" target="_blank" rel="noopener" title="Google Maps：多慶屋 上野">📍地圖</a>快逛</b>：御徒町大型折扣店，先看藥妝／食品／日用品／伴手禮價格；抵達日不要買太重，先做比價與補基本用品。</p>
 <p><span class="time">17:15–18:00</span> <b>阿美橫町<a class="gmap" href="https://www.google.com/maps/search/?api=1&query=%E3%82%A2%E3%83%A1%E6%A8%AA" target="_blank" rel="noopener" title="Google Maps：アメ横">📍地圖</a>逛街</b>（药妆、零食、海鮮乾貨；見下「阿美橫町・在地生活」）。</p>
@@ -664,8 +670,8 @@
 <summary>🍽 三餐 ×3 備案</summary>
 <div class="card">
 <p class="muted">本日風格：<b>甜點下午茶 ＋ 阿美橫町逛街晚餐</b>（與其他天不重複）。</p>
-<p><span class="tag b">下午茶（15:00）</span></p>
-<p><b>① HARBS 上野店<a class="gmap" href="https://www.google.com/maps/search/?api=1&query=HARBS%20PARCO_ya%20%E4%B8%8A%E9%87%8E" target="_blank" rel="noopener" title="Google Maps：HARBS PARCO_ya 上野">📍地圖</a></b>（ハーブス）<span class="pill">PARCO_ya<a class="gmap" href="https://www.google.com/maps/search/?api=1&query=PARCO_ya%20%E4%B8%8A%E9%87%8E" target="_blank" rel="noopener" title="Google Maps：PARCO_ya 上野">📍地圖</a> 2F</span> — 水果千層 Mille Crepes + 熱紅茶，¥1,500–2,000。<b>不收訂位</b>；若當天 <b>15:30 前已到上野且排隊不長</b>再選它，否則直接改 ②③ 更穩，每人低消一杯飲品。Maps：<a class="gmap" href="https://www.google.com/maps/search/?api=1&query=HARBS%20PARCO_ya%20%E4%B8%8A%E9%87%8E" target="_blank" rel="noopener" title="Google Maps：HARBS PARCO_ya 上野">HARBS PARCO_ya 上野</a>。</p>
+<p><span class="tag b">下午茶（15:30｜Check-in 後）</span></p>
+<p><b>① HARBS 上野店<a class="gmap" href="https://www.google.com/maps/search/?api=1&query=HARBS%20PARCO_ya%20%E4%B8%8A%E9%87%8E" target="_blank" rel="noopener" title="Google Maps：HARBS PARCO_ya 上野">📍地圖</a></b>（ハーブス）<span class="pill">PARCO_ya<a class="gmap" href="https://www.google.com/maps/search/?api=1&query=PARCO_ya%20%E4%B8%8A%E9%87%8E" target="_blank" rel="noopener" title="Google Maps：PARCO_ya 上野">📍地圖</a> 2F</span> — 水果千層 Mille Crepes + 熱紅茶，¥1,500–2,000。<b>不收訂位</b>；Minn Check-in 後若排隊不長再選它，否則直接改 ②③ 更穩，每人低消一杯飲品。Maps：<a class="gmap" href="https://www.google.com/maps/search/?api=1&query=HARBS%20PARCO_ya%20%E4%B8%8A%E9%87%8E" target="_blank" rel="noopener" title="Google Maps：HARBS PARCO_ya 上野">HARBS PARCO_ya 上野</a>。</p>
 <p><b>② みはし 上野本店<a class="gmap" href="https://www.google.com/maps/search/?api=1&query=%E3%81%BF%E3%81%AF%E3%81%97%20%E4%B8%8A%E9%87%8E%E6%9C%AC%E5%BA%97" target="_blank" rel="noopener" title="Google Maps：みはし 上野本店">📍地圖</a></b>（あんみつ蜜豆冰）— 在地老店、夏天消暑，¥800–1,200，<b>現場候位、不訂位</b>。Maps：<a class="gmap" href="https://www.google.com/maps/search/?api=1&query=%E3%81%BF%E3%81%AF%E3%81%97%20%E4%B8%8A%E9%87%8E" target="_blank" rel="noopener" title="Google Maps：みはし 上野">みはし 上野</a>。</p>
 <p><b>③ 廚 otto e sette<a class="gmap" href="https://www.google.com/maps/search/?api=1&query=%E5%BB%9A%20otto%20e%20sette%20%E4%B8%8A%E9%87%8E" target="_blank" rel="noopener" title="Google Maps：廚 otto e sette 上野">📍地圖</a></b>（義式甜點，少觀光客）— 蛋糕精緻，¥1,200–1,800，<b>不訂位</b>，平日午後較空。</p>
 <hr>

diff --git a/docs/Japan/20260812_Tokyo/tokyo-20260812-guide.html b/docs/Japan/20260812_Tokyo/tokyo-20260812-guide.html
@@ -329,12 +329,13 @@
 <p class="muted">外出只要看這一節就好；遇到疑問再往下翻各日詳細說明。</p>
 
 <details open>
-<summary>Day1｜抵達東京・上野下午茶・多慶屋・阿美橫町</summary>
+<summary>Day1｜抵達東京・Minn Check-in・上野下午茶・多慶屋・阿美橫町</summary>
 <ul>
 <li><span class="time">07:55</span> 桃園 T2 起飛（BR 184）→ <span class="time">12:25</span> 抵達成田機場<a class="gmap" href="https://www.google.com/maps/search/?api=1&query=%E6%88%90%E7%94%B0%E5%9B%BD%E9%9A%9B%E7%A9%BA%E6%B8%AF" target="_blank" rel="noopener" title="Google Maps：成田国際空港">📍地圖</a> → 依指示走 VJW 通關。<b>行李多、人多時不用急著衝車</b>。</li>
 <li><span class="time">14:00–14:30</span> Skyliner 成田機場站<a class="gmap" href="https://www.google.com/maps/search/?api=1&query=%E6%88%90%E7%94%B0%E7%A9%BA%E6%B8%AF%E9%A7%85" target="_blank" rel="noopener" title="Google Maps：成田空港駅">📍地圖</a> → 京成上野站<a class="gmap" href="https://www.google.com/maps/search/?api=1&query=%E4%BA%AC%E6%88%90%E4%B8%8A%E9%87%8E%E9%A7%85" target="_blank" rel="noopener" title="Google Maps：京成上野駅">📍地圖</a>（建議現場直接買來回票）。</li>
+<li><span class="time">15:00–15:25</span> 步行約 10–15 分 → <b>Minn 上野</b> 手機自助 Check-in／セルフクローク寄行李（無提早 Check-in）。詳見 <a href="ueno-station-to-minn-ueno-guide.html">站→飯店</a>。</li>
 <li><span class="time">15:30–16:15</span> 上野下午茶：HARBS<a class="gmap" href="https://www.google.com/maps/search/?api=1&query=HARBS%20PARCO_ya%20%E4%B8%8A%E9%87%8E" target="_blank" rel="noopener" title="Google Maps：HARBS PARCO_ya 上野">📍地圖</a> 若排隊太長就直接改 <b>みはし<a class="gmap" href="https://www.google.com/maps/search/?api=1&query=%E3%81%BF%E3%81%AF%E3%81%97%20%E4%B8%8A%E9%87%8E%E6%9C%AC%E5%BA%97" target="_blank" rel="noopener" title="Google Maps：みはし 上野本店">📍地圖</a> / otto e sette<a class="gmap" href="https://www.google.com/maps/search/?api=1&query=%E5%BB%9A%20otto%20e%20sette%20%E4%B8%8A%E9%87%8E" target="_blank" rel="noopener" title="Google Maps：廚 otto e sette 上野">📍地圖</a></b>。</li>
-<li><span class="time">16:15–17:15</span> <b>多慶屋快逛</b>（藥妝／食品／日用品先看價）→ <span class="time">17:15 起</span> 阿美橫町逛街＋晚餐 → 回飯店前買宵夜／明日早餐。</li>
+<li><span class="time">16:15–17:15</span> <b>多慶屋快逛</b>（藥妝／食品／日用品先看價；可補牙刷）→ <span class="time">17:15 起</span> 阿美橫町逛街＋晚餐 → 回飯店前買宵夜／明日早餐。</li>
 </ul>
 </details>
 
@@ -568,7 +569,7 @@
 <summary>🟢 現場即可（不收訂位 / 排隊制）</summary>
 <div class="card">
 <ul>
-<li><b>Day1</b>：HARBS、みはし、鳥貴族、山家炸豬排、天丼てんや — <b>現場排</b>；HARBS <b>14:30 前到</b>。</li>
+<li><b>Day1</b>：HARBS、みはし、鳥貴族、山家炸豬排、天丼てんや — <b>現場排</b>；入住後再看 HARBS，隊長就改 みはし。</li>
 <li><b>Day2</b>：豐洲午餐多店機動；晚餐優先麻布台 Hills／希須林／Sta.／神谷町・六本木連鎖，或回上野阿美橫／てんや／山家。</li>
 <li><b>Day3</b>：WEGO 原宿本店 10:30 開；午餐澀谷；晚餐改新宿西口（展望台後、光雕秀前）；19:30 光雕秀後回上野。</li>
 <li><b>Day4</b>：Solamachi トリトン／利久；燈籠後淺草或上野快速晚餐。</li>
@@ -609,6 +610,10 @@
 <div class="muted">住宿：<b>Minn 上野</b>（東上野1-19-5<a class="gmap" href="https://www.google.com/maps/search/?api=1&query=Minn%E4%B8%8A%E9%87%8E+%E6%9D%B1%E4%BA%AC%E9%83%BD%E5%8F%B0%E6%9D%B1%E5%8C%BA%E6%9D%B1%E4%B8%8A%E9%87%8E1-19-5" target="_blank" rel="noopener" title="Google Maps：Minn 上野">📍地圖</a>｜Check-in 15:00）　主題：輕鬆收心、上野/御徒町初逛、多慶屋比價、阿美橫町初體驗　｜　<a href="ueno-station-to-minn-ueno-guide.html">站→飯店動線</a></div>
 <a class="map-link" href="assets/day-01-20260812.png" target="_blank" rel="noopener"><img src="assets/day-01-20260812.png" alt="Day 1 旅程地圖（點擊開啟高畫質原圖）" class="map-img" loading="lazy" decoding="async"></a>
 
+<div class="okbox">✅ <b>本日定案</b>：成田 → Skyliner → <b>Minn 上野</b>（15:00 Check-in）→ 下午茶 → 多慶屋比價 → 阿美橫町逛街＋アメ横食堂 → 回飯店前買明日早餐。<br>
+⭐ 京成上野→Minn 步行約 <b>10–15 分</b>（可改 JR 御徒町再走約 5 分）。手機自助入住＋セルフクローク；詳見 <a href="ueno-station-to-minn-ueno-guide.html">站→飯店指南</a>。</div>
+<div class="warnbox">⚠ Minn <b>無提早 Check-in</b>；提早到先寄行李再去吃／逛。備品含洗髮／沐浴／毛巾／吹風機，<b>不含牙刷／刮鬍刀／睡衣</b>（可現場買竹牙刷，或到多慶屋／药妆補）。</div>
+
 <details open>
 <summary>🕒 時間表 + 交通路線</summary>
 <div class="card">
@@ -616,7 +621,8 @@
 <span class="muted">↳ 抓 90–120 分鐘緩衝：暑假人潮 + 領李 + 買 Skyliner 票，<b>14:00–14:30 上車</b>較合理。</span></p>
 <p><span class="time">~14:10–14:30</span> <b>京成 Skyliner</b>：成田機場站<a class="gmap" href="https://www.google.com/maps/search/?api=1&query=%E6%88%90%E7%94%B0%E7%A9%BA%E6%B8%AF%E9%A7%85" target="_blank" rel="noopener" title="Google Maps：成田空港駅">📍地圖</a> → 京成上野站<a class="gmap" href="https://www.google.com/maps/search/?api=1&query=%E4%BA%AC%E6%88%90%E4%B8%8A%E9%87%8E%E9%A7%85" target="_blank" rel="noopener" title="Google Maps：京成上野駅">📍地圖</a>，<b>直達不轉車 41 分</b>，¥2,580（建議買來回 ¥4,480）。<br>
 <span class="muted">↳ Skyliner 對號座，行李架夠大。</span></p>
-<p><span class="time">15:00–15:25</span> 京成上野站<a class="gmap" href="https://www.google.com/maps/search/?api=1&query=%E4%BA%AC%E6%88%90%E4%B8%8A%E9%87%8E%E9%A7%85" target="_blank" rel="noopener" title="Google Maps：京成上野駅">📍地圖</a>步行約 10–15 分（或轉 JR 御徒町再走 5 分）→ <b>Minn 上野</b> 手機自助 Check-in／セルフクローク寄行李。詳見 <a href="ueno-station-to-minn-ueno-guide.html">站→飯店指南</a>。</p>
+<p><span class="time">15:00–15:25</span> 京成上野站<a class="gmap" href="https://www.google.com/maps/search/?api=1&query=%E4%BA%AC%E6%88%90%E4%B8%8A%E9%87%8E%E9%A7%85" target="_blank" rel="noopener" title="Google Maps：京成上野駅">📍地圖</a>步行約 10–15 分（或轉 JR 御徒町再走 5 分）→ <b>Minn 上野</b> 手機自助 Check-in／セルフクローク寄行李。詳見 <a href="ueno-station-to-minn-ueno-guide.html">站→飯店指南</a>。<br>
+<span class="muted">↳ 方向往南（御徒町／阿美橫），勿往不忍池／動物園北走。Maps 搜「Minn 上野」或東上野1-19-5。</span></p>
 <p><span class="time">15:30–16:10</span> 下午茶（<b>HARBS 若還排得進就吃；若已晚或太多人，直接改 みはし/otto e sette</b>）。</p>
 <p><span class="time">16:15–17:15</span> <b>多慶屋 TAKEYA<a class="gmap" href="https://www.google.com/maps/search/?api=1&query=%E5%A4%9A%E6%85%B6%E5%B1%8B%20%E4%B8%8A%E9%87%8E" target="_blank" rel="noopener" title="Google Maps：多慶屋 上野">📍地圖</a>快逛</b>：御徒町大型折扣店，先看藥妝／食品／日用品／伴手禮價格；抵達日不要買太重，先做比價與補基本用品。</p>
 <p><span class="time">17:15–18:00</span> <b>阿美橫町<a class="gmap" href="https://www.google.com/maps/search/?api=1&query=%E3%82%A2%E3%83%A1%E6%A8%AA" target="_blank" rel="noopener" title="Google Maps：アメ横">📍地圖</a>逛街</b>（药妆、零食、海鮮乾貨；見下「阿美橫町・在地生活」）。</p>
@@ -664,8 +670,8 @@
 <summary>🍽 三餐 ×3 備案</summary>
 <div class="card">
 <p class="muted">本日風格：<b>甜點下午茶 ＋ 阿美橫町逛街晚餐</b>（與其他天不重複）。</p>
-<p><span class="tag b">下午茶（15:00）</span></p>
-<p><b>① HARBS 上野店<a class="gmap" href="https://www.google.com/maps/search/?api=1&query=HARBS%20PARCO_ya%20%E4%B8%8A%E9%87%8E" target="_blank" rel="noopener" title="Google Maps：HARBS PARCO_ya 上野">📍地圖</a></b>（ハーブス）<span class="pill">PARCO_ya<a class="gmap" href="https://www.google.com/maps/search/?api=1&query=PARCO_ya%20%E4%B8%8A%E9%87%8E" target="_blank" rel="noopener" title="Google Maps：PARCO_ya 上野">📍地圖</a> 2F</span> — 水果千層 Mille Crepes + 熱紅茶，¥1,500–2,000。<b>不收訂位</b>；若當天 <b>15:30 前已到上野且排隊不長</b>再選它，否則直接改 ②③ 更穩，每人低消一杯飲品。Maps：<a class="gmap" href="https://www.google.com/maps/search/?api=1&query=HARBS%20PARCO_ya%20%E4%B8%8A%E9%87%8E" target="_blank" rel="noopener" title="Google Maps：HARBS PARCO_ya 上野">HARBS PARCO_ya 上野</a>。</p>
+<p><span class="tag b">下午茶（15:30｜Check-in 後）</span></p>
+<p><b>① HARBS 上野店<a class="gmap" href="https://www.google.com/maps/search/?api=1&query=HARBS%20PARCO_ya%20%E4%B8%8A%E9%87%8E" target="_blank" rel="noopener" title="Google Maps：HARBS PARCO_ya 上野">📍地圖</a></b>（ハーブス）<span class="pill">PARCO_ya<a class="gmap" href="https://www.google.com/maps/search/?api=1&query=PARCO_ya%20%E4%B8%8A%E9%87%8E" target="_blank" rel="noopener" title="Google Maps：PARCO_ya 上野">📍地圖</a> 2F</span> — 水果千層 Mille Crepes + 熱紅茶，¥1,500–2,000。<b>不收訂位</b>；Minn Check-in 後若排隊不長再選它，否則直接改 ②③ 更穩，每人低消一杯飲品。Maps：<a class="gmap" href="https://www.google.com/maps/search/?api=1&query=HARBS%20PARCO_ya%20%E4%B8%8A%E9%87%8E" target="_blank" rel="noopener" title="Google Maps：HARBS PARCO_ya 上野">HARBS PARCO_ya 上野</a>。</p>
 <p><b>② みはし 上野本店<a class="gmap" href="https://www.google.com/maps/search/?api=1&query=%E3%81%BF%E3%81%AF%E3%81%97%20%E4%B8%8A%E9%87%8E%E6%9C%AC%E5%BA%97" target="_blank" rel="noopener" title="Google Maps：みはし 上野本店">📍地圖</a></b>（あんみつ蜜豆冰）— 在地老店、夏天消暑，¥800–1,200，<b>現場候位、不訂位</b>。Maps：<a class="gmap" href="https://www.google.com/maps/search/?api=1&query=%E3%81%BF%E3%81%AF%E3%81%97%20%E4%B8%8A%E9%87%8E" target="_blank" rel="noopener" title="Google Maps：みはし 上野">みはし 上野</a>。</p>
 <p><b>③ 廚 otto e sette<a class="gmap" href="https://www.google.com/maps/search/?api=1&query=%E5%BB%9A%20otto%20e%20sette%20%E4%B8%8A%E9%87%8E" target="_blank" rel="noopener" title="Google Maps：廚 otto e sette 上野">📍地圖</a></b>（義式甜點，少觀光客）— 蛋糕精緻，¥1,200–1,800，<b>不訂位</b>，平日午後較空。</p>
 <hr>

diff --git a/Japan/20260812_Tokyo/tokyo-2026-08-ueno-local-guide.html b/Japan/20260812_Tokyo/tokyo-2026-08-ueno-local-guide.html
@@ -323,7 +323,7 @@
 <li><b>垃圾桶少</b>：買垃圾袋；零食回飯店再吃。</li>
 <li><b>導航</b>：點本頁任一 📍地圖 → Google Maps 開步行導航。</li>
 <li><b>排隊</b>：拉麺名店 18:00–19:30 尖峰；可改 17:30 或 20:00 後。</li>
-<li><b>飯店</b>：Hotel Crown Hills Ueno Premier <a class="gmap" href="https://www.google.com/maps/search/?api=1&query=%E3%83%9B%E3%83%86%E3%83%AB%E3%82%AF%E3%83%A9%E3%82%A6%E3%83%B3%E3%83%92%E3%83%AB%E3%82%BA%E4%B8%8A%E9%87%8E%E3%83%97%E3%83%AC%E3%83%9F%E3%82%A2" target="_blank" rel="noopener">📍地圖</a></li>
+<li><b>飯店</b>：Minn 上野（東上野1-19-5） <a class="gmap" href="https://www.google.com/maps/search/?api=1&query=Minn%E4%B8%8A%E9%87%8E+%E6%9D%B1%E4%BA%AC%E9%83%BD%E5%8F%B0%E6%9D%B1%E5%8C%BA%E6%9D%B1%E4%B8%8A%E9%87%8E1-19-5" target="_blank" rel="noopener">📍地圖</a>　｜　動線見 <a href="ueno-station-to-minn-ueno-guide.html">站→Minn 指南</a></li>
 </ul>
 </div>
 

diff --git a/docs/Japan/20260812_Tokyo/tokyo-2026-08-ueno-local-guide.html b/docs/Japan/20260812_Tokyo/tokyo-2026-08-ueno-local-guide.html
@@ -323,7 +323,7 @@
 <li><b>垃圾桶少</b>：買垃圾袋；零食回飯店再吃。</li>
 <li><b>導航</b>：點本頁任一 📍地圖 → Google Maps 開步行導航。</li>
 <li><b>排隊</b>：拉麺名店 18:00–19:30 尖峰；可改 17:30 或 20:00 後。</li>
-<li><b>飯店</b>：Hotel Crown Hills Ueno Premier <a class="gmap" href="https://www.google.com/maps/search/?api=1&query=%E3%83%9B%E3%83%86%E3%83%AB%E3%82%AF%E3%83%A9%E3%82%A6%E3%83%B3%E3%83%92%E3%83%AB%E3%82%BA%E4%B8%8A%E9%87%8E%E3%83%97%E3%83%AC%E3%83%9F%E3%82%A2" target="_blank" rel="noopener">📍地圖</a></li>
+<li><b>飯店</b>：Minn 上野（東上野1-19-5） <a class="gmap" href="https://www.google.com/maps/search/?api=1&query=Minn%E4%B8%8A%E9%87%8E+%E6%9D%B1%E4%BA%AC%E9%83%BD%E5%8F%B0%E6%9D%B1%E5%8C%BA%E6%9D%B1%E4%B8%8A%E9%87%8E1-19-5" target="_blank" rel="noopener">📍地圖</a>　｜　動線見 <a href="ueno-station-to-minn-ueno-guide.html">站→Minn 指南</a></li>
 </ul>
 </div>
 
